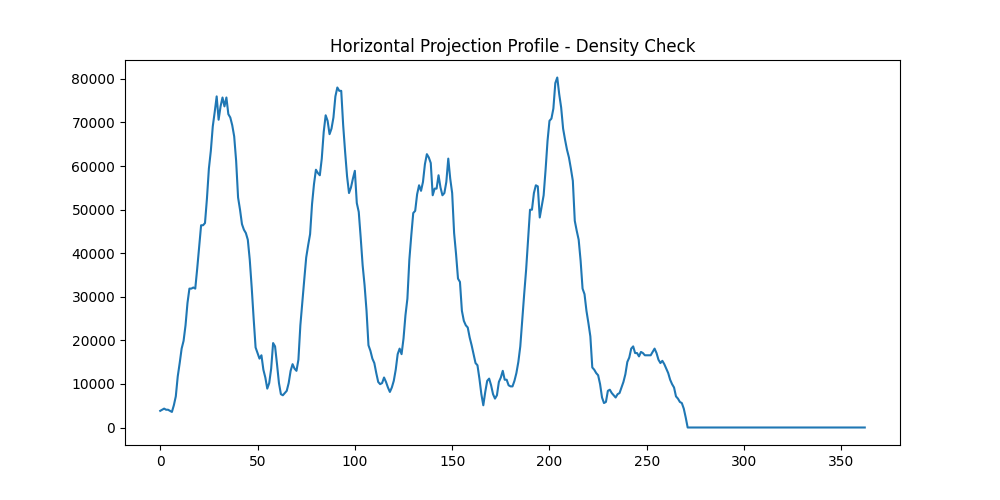
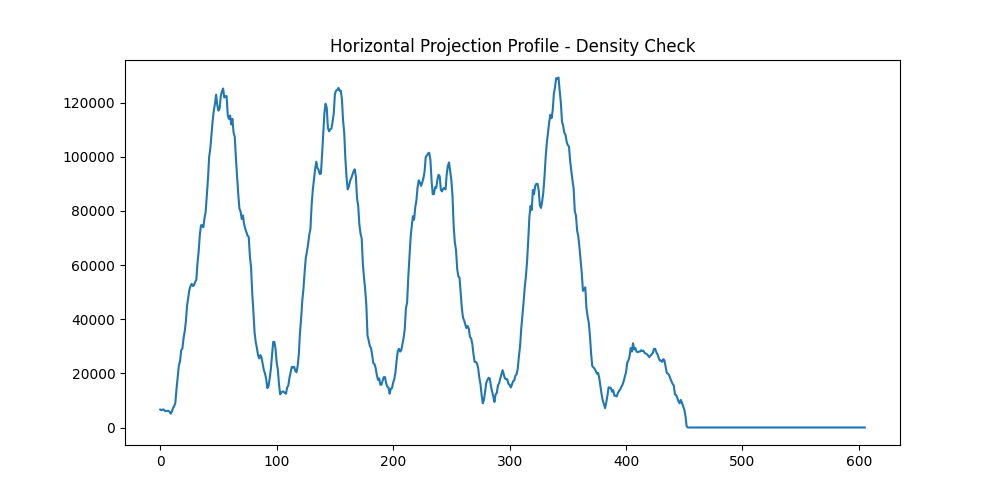
Fixed Details in ResultPage

diff --git a/front/frontapp/src/Components/new_design/ResultsPage.jsx b/front/frontapp/src/Components/new_design/ResultsPage.jsx
@@ -43,43 +43,12 @@ const radarMetrics = [
 { label: "Pressure", value: 45 }];
 
 
-const explanations = [
-{
-  id: 1,
-  severity: "high",
-  icon: AlertTriangle,
-  title: "Irregular baseline alignment detected",
-  summary: "Writing drifts significantly above and below the expected line.",
-  detail: "The model identified that the text does not maintain a consistent horizontal baseline. Words appear at varying vertical positions, a common marker in dysgraphia. This pattern accounted for ~28% of the model's confidence score.",
-  contribution: 28
-},
-{
-  id: 2,
-  severity: "high",
-  icon: TrendingDown,
-  title: "Large variation in word spacing",
-  summary: "Significant and irregular gaps between words throughout the sample.",
-  detail: "Word spacing analysis revealed gaps ranging from 4 px to 38 px between adjacent words, compared to an expected range of 8–14 px. This extreme variability is associated with difficulties in visual-spatial planning — a key characteristic of dysgraphia.",
-  contribution: 24
-},
-{
-  id: 3,
-  severity: "moderate",
-  icon: Info,
-  title: "Inconsistent letter size across sample",
-  summary: "Letter height varies considerably, particularly in lowercase ascenders.",
-  detail: "Letter height analysis shows a coefficient of variation of 0.41. Specifically, letters b, d, h, l showed the most variability, suggesting working-memory difficulties with letterform templates.",
-  contribution: 19
-},
-{
-  id: 4,
-  severity: "low",
-  icon: CheckCircle,
-  title: "No significant letter reversals detected",
-  summary: "b/d and p/q reversal patterns were not found in this sample.",
-  detail: "The model specifically checked for common reversal patterns (b↔d, p↔q, n↔u). No statistically significant reversals were detected. This is a positive finding that reduces the overall risk score.",
-  contribution: -8
-}];
+
+const Explanitions = {
+  'Low Risk': {Headline: "No significant learning disabilities markers detected" ,bodytext : "The analysis indicates that the handwriting patterns closely align with typical development. Minimal to no indicators of LDs —such as severe baseline drift or highly irregular letter sizing—were found."},
+  'Moderate Risk': {Headline: "Potential learning disabilities markers detected",bodytext :"The analysis identified moderate signs consistent with LDs —such as inconsistent word spacing, baseline drift, and variable letter sizing. These patterns suggest that writing may require significantly more effort than usual. "},
+  'High Risk': {Headline: "Strong learning disabilities markers detected",bodytext:"The analysis identified pronounced, consistent indicators strongly associated with LDs. These include highly irregular letter formations, significant spacing inconsistencies, and severe baseline deviations across the analyzed text."}
+}
 
 
 const severityStyle = {
@@ -133,6 +102,9 @@ export function ResultsPage({ result, darkMode, onToggleDark, onNewAnalysis }) {
     // { label: "Word's gaps that above average user's gap:", value: result.data.features.large_gap_count, status: "moderate",HighestValue:"none" },
     // {label: "Average Spaces Between Words",value :result.data.features.avg_spaces,status:"moderate",HighestValue: " none"}
   ]
+  const date = new Date();
+  const formattedDate = date.toDateString(); 
+
   const numric_only_metrics = [
 
   ]
@@ -183,20 +155,24 @@ export function ResultsPage({ result, darkMode, onToggleDark, onNewAnalysis }) {
               <GaugeChart score={riskScore} />
               <span className={`mt-2 px-3 py-1 rounded-full text-sm ${riskCls}`} style={{ fontWeight: 700, fontSize: 13 }}>{riskLabel}</span>
             </div>
+             
             <div className="flex-1">
+              
               <p className="text-muted-foreground mb-1" style={{ fontSize: 12, fontWeight: 700, textTransform: "uppercase", letterSpacing: "0.06em" }}>Analysis 
-                 · May 29, 2026</p>
+                 · {formattedDate}</p>
+              
               <h2 className="text-foreground mb-3" style={{ fontFamily: "'Plus Jakarta Sans', sans-serif", fontWeight: 800, fontSize: 22 }}>
-                Potential dysgraphia markers detected
+              {Explanitions[riskLabel].Headline}
               </h2>
               <p className="text-muted-foreground mb-4" style={{ fontSize: 14, lineHeight: 1.65 }}>
-                The analysis identified moderate signs consistent with dysgraphia — inconsistent word spacing, baseline drift, and variable letter sizing. These patterns may warrant further professional evaluation.
+               {Explanitions[riskLabel].bodytext}
               </p>
               <div className="flex flex-wrap gap-4">
                 <Stat label="Likelihood" value={`${confidence}%`} color="text-primary" />
                 <Stat label="Metrics Analyzed" value="6" color="text-accent" />
               </div>
             </div>
+             
           </div>
         </div>
 
@@ -281,6 +257,16 @@ export function ResultsPage({ result, darkMode, onToggleDark, onNewAnalysis }) {
           </button> */}
         </div>
       </div>
+      {/* Footer */}
+      <footer className="bg-card border-t border-border py-6">
+        <div className="max-w-5xl mx-auto px-4 sm:px-6 flex flex-col sm:flex-row items-center justify-between gap-2 text-muted-foreground" style={{ fontSize: 12 }}>
+          <div className="flex items-center gap-2">
+            <Brain className="w-4 h-4 text-primary" />
+            <span>DyScreen · Deep Learning Handwriting Screening · 2026</span>
+          </div>
+          <p>⚠️ Not a diagnostic tool · For preliminary screening purposes only</p>
+        </div>
+      </footer>
     </div>);
 
 }
@@ -331,7 +317,7 @@ function GaugeChart({ score }) {
       )}
       <line x1={cx} y1={cy} x2={needleX} y2={needleY} stroke="var(--foreground)" strokeWidth="2.5" strokeLinecap="round" />
       <circle cx={cx} cy={cy} r="4" fill="var(--foreground)" />
-      <text x={cx} y={84} textAnchor="middle" fill="var(--foreground)" fontSize="15" fontFamily="'Plus Jakarta Sans', sans-serif" fontWeight="800">{score}</text>
+      {/* <text x={cx} y={84} textAnchor="middle" fill="var(--foreground)" fontSize="15" fontFamily="'Plus Jakarta Sans', sans-serif" fontWeight="800">{score}</text> */}
     </svg>);
 
 }

diff --git a/front/frontapp/src/Components/new_design/ResultsScreen.jsx b/front/frontapp/src/Components/new_design/ResultsScreen.jsx
@@ -222,7 +222,10 @@ export function ResultsScreen({ onBack, onViewExplainability }) {
 
             })}
           </div>
+          
         </div>
+        
+        
 
         {/* Trend chart */}
         <div className="lg:col-span-1 bg-card rounded-2xl border border-border p-5">
@@ -286,6 +289,9 @@ export function ResultsScreen({ onBack, onViewExplainability }) {
             New Analysis
           </button>
         </div>
+        
+        
+
       </div>
     </div>);
 